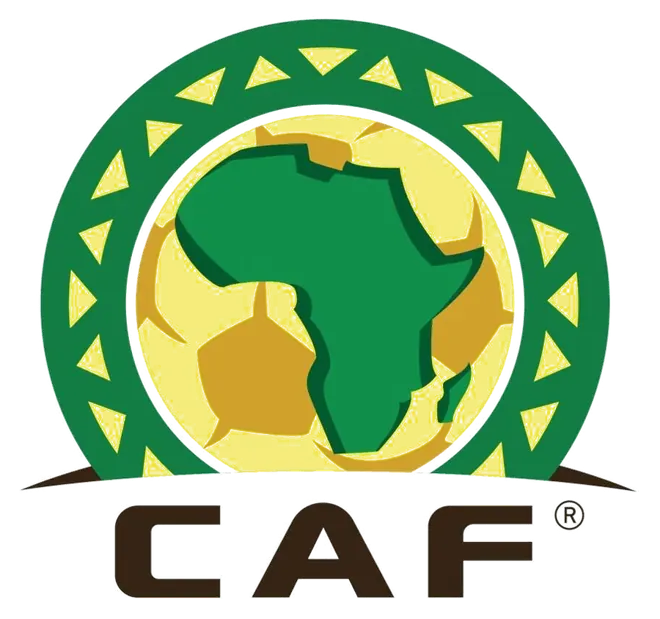
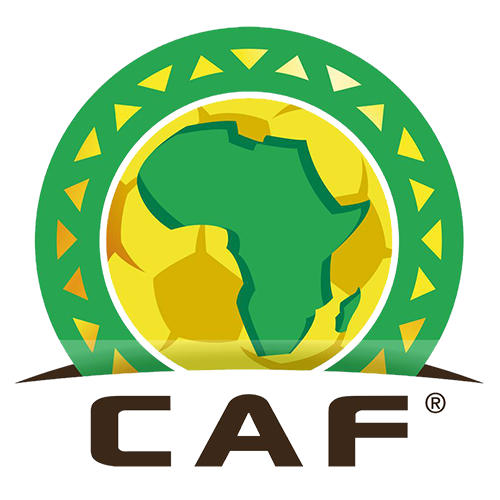
Replace UEFA, Concacaf 2026 and CAF qualification crests with supplied lossless images

diff --git a/light-contrast.css b/light-contrast.css
@@ -275,13 +275,14 @@ html[data-theme="light"] .logo-holder:has(img[data-league-logo="rsa.1"]){backgro
 .logo-holder:has(img[data-league-logo="ned.1"]),
 .logo-holder:has(img[data-league-logo="aus.1"]),
 .logo-holder:has(img[data-league-logo="fifa.worldq.uefa"]),
+.logo-holder:has(img[data-league-logo="fifa.worldq.concacaf"]),
 .logo-holder:has(img[data-league-logo="fifa.worldq.caf"]),
 .logo-holder:has(img[data-league-logo="caf.nations_qual"]),
 .logo-holder:has(img[data-league-logo="fifa.worldq.conmebol"]),
 .logo-holder:has(img[data-league-logo="uefa.nations"]){
   background:#f5f8fd!important;border:0!important;box-shadow:none!important;
 }
-.logo-holder img:is([data-league-logo="ned.1"],[data-league-logo="aus.1"],[data-league-logo="fifa.worldq.uefa"],[data-league-logo="fifa.worldq.caf"],[data-league-logo="caf.nations_qual"],[data-league-logo="fifa.worldq.conmebol"],[data-league-logo="uefa.nations"]){
+.logo-holder img:is([data-league-logo="ned.1"],[data-league-logo="aus.1"],[data-league-logo="fifa.worldq.uefa"],[data-league-logo="fifa.worldq.concacaf"],[data-league-logo="fifa.worldq.caf"],[data-league-logo="caf.nations_qual"],[data-league-logo="fifa.worldq.conmebol"],[data-league-logo="uefa.nations"]){
   image-rendering:auto!important;object-fit:contain!important;filter:none!important;
   padding:2px!important;width:100%!important;height:100%!important;
 }

diff --git a/logos-extra.js b/logos-extra.js
@@ -6,10 +6,11 @@
     'rsa.1':'./assets/betway-premiership.svg',
 
     'eng.1':'./assets/premier-league-lion-2026.png',
-    /* User-supplied modern emblems, individually optimized. */
+    /* User-supplied emblems, stored locally in lossless format. The CAF symbol is a confederation emblem used for its qualifiers, not the AFCON tournament crest. */
     'ned.1':'./assets/eredivisie-2026.svg',
     'aus.1':'./assets/a-league-men-2026.svg',
     'fifa.worldq.uefa':'./assets/european-qualifiers-2026.webp',
+    'fifa.worldq.concacaf':'./assets/concacaf-qualifiers-2026.webp',
     'fifa.worldq.caf':'./assets/caf-federation-hq.webp',
     'caf.nations_qual':'./assets/caf-federation-hq.webp',
     'fifa.worldq.conmebol':'./assets/conmebol-federation-hq.webp',
